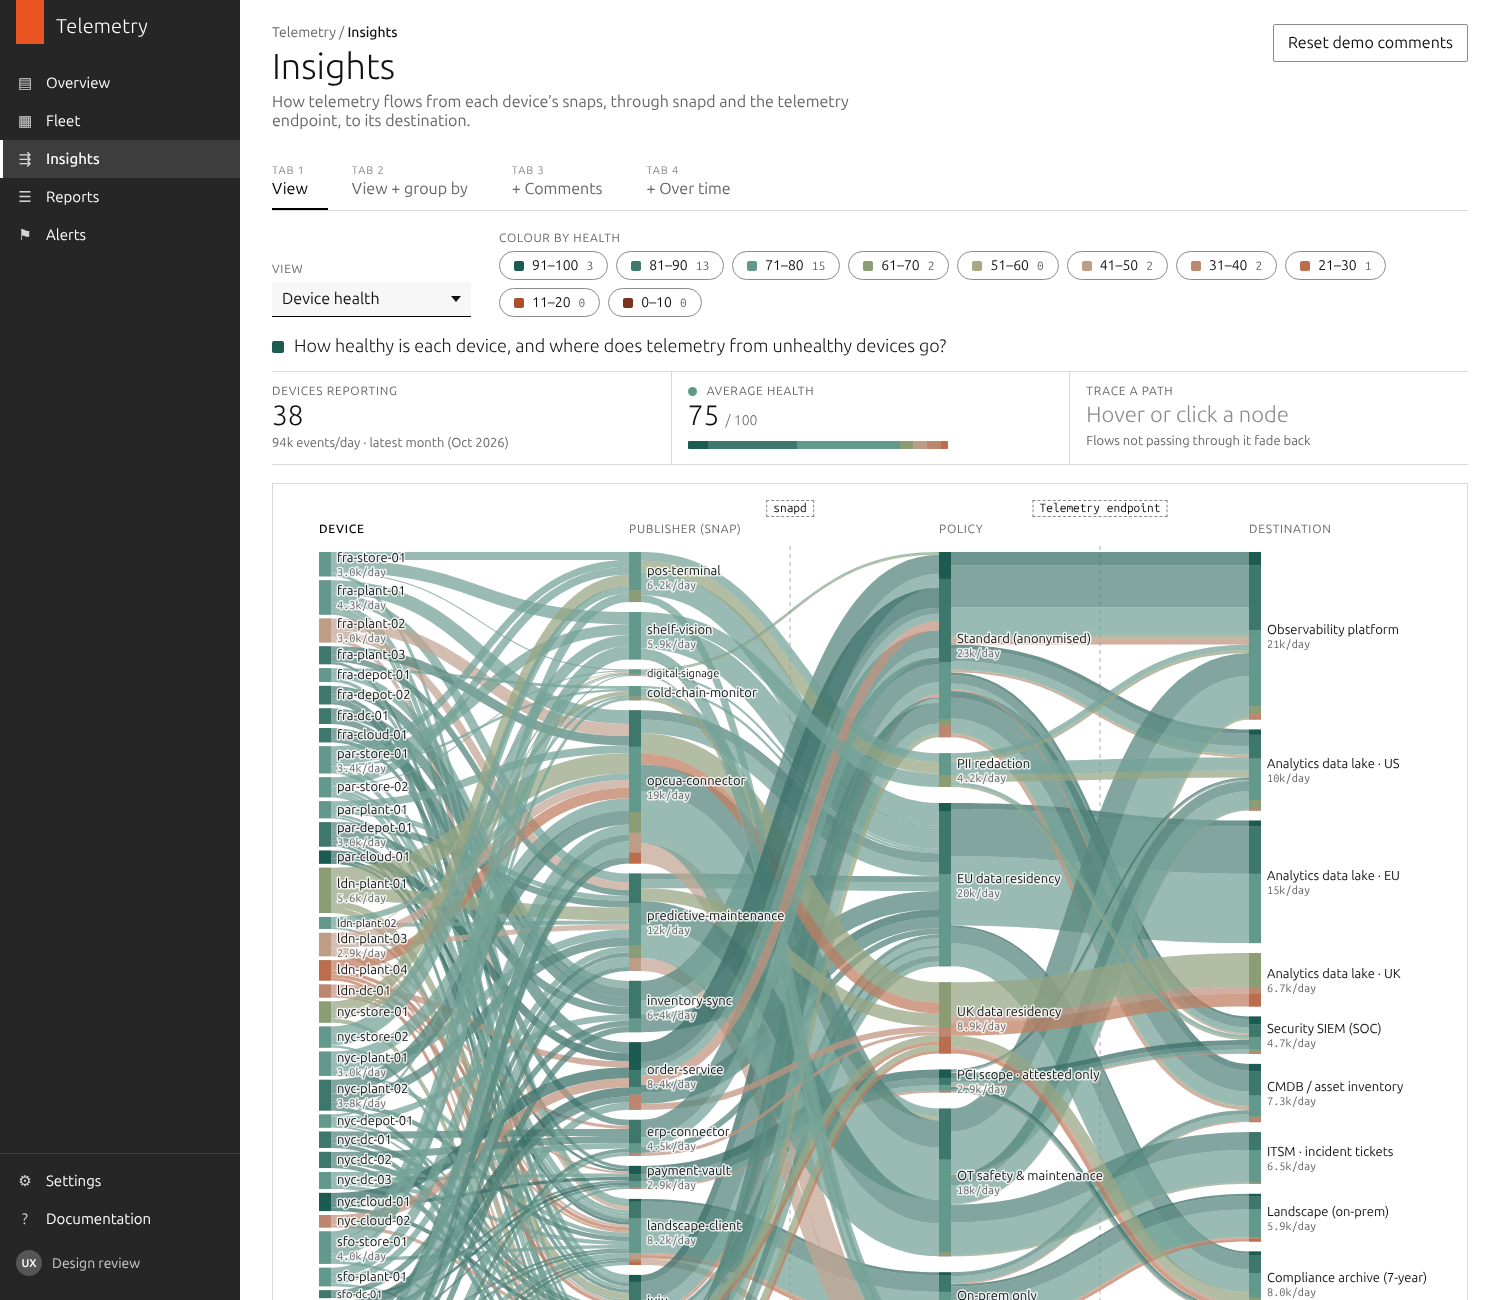
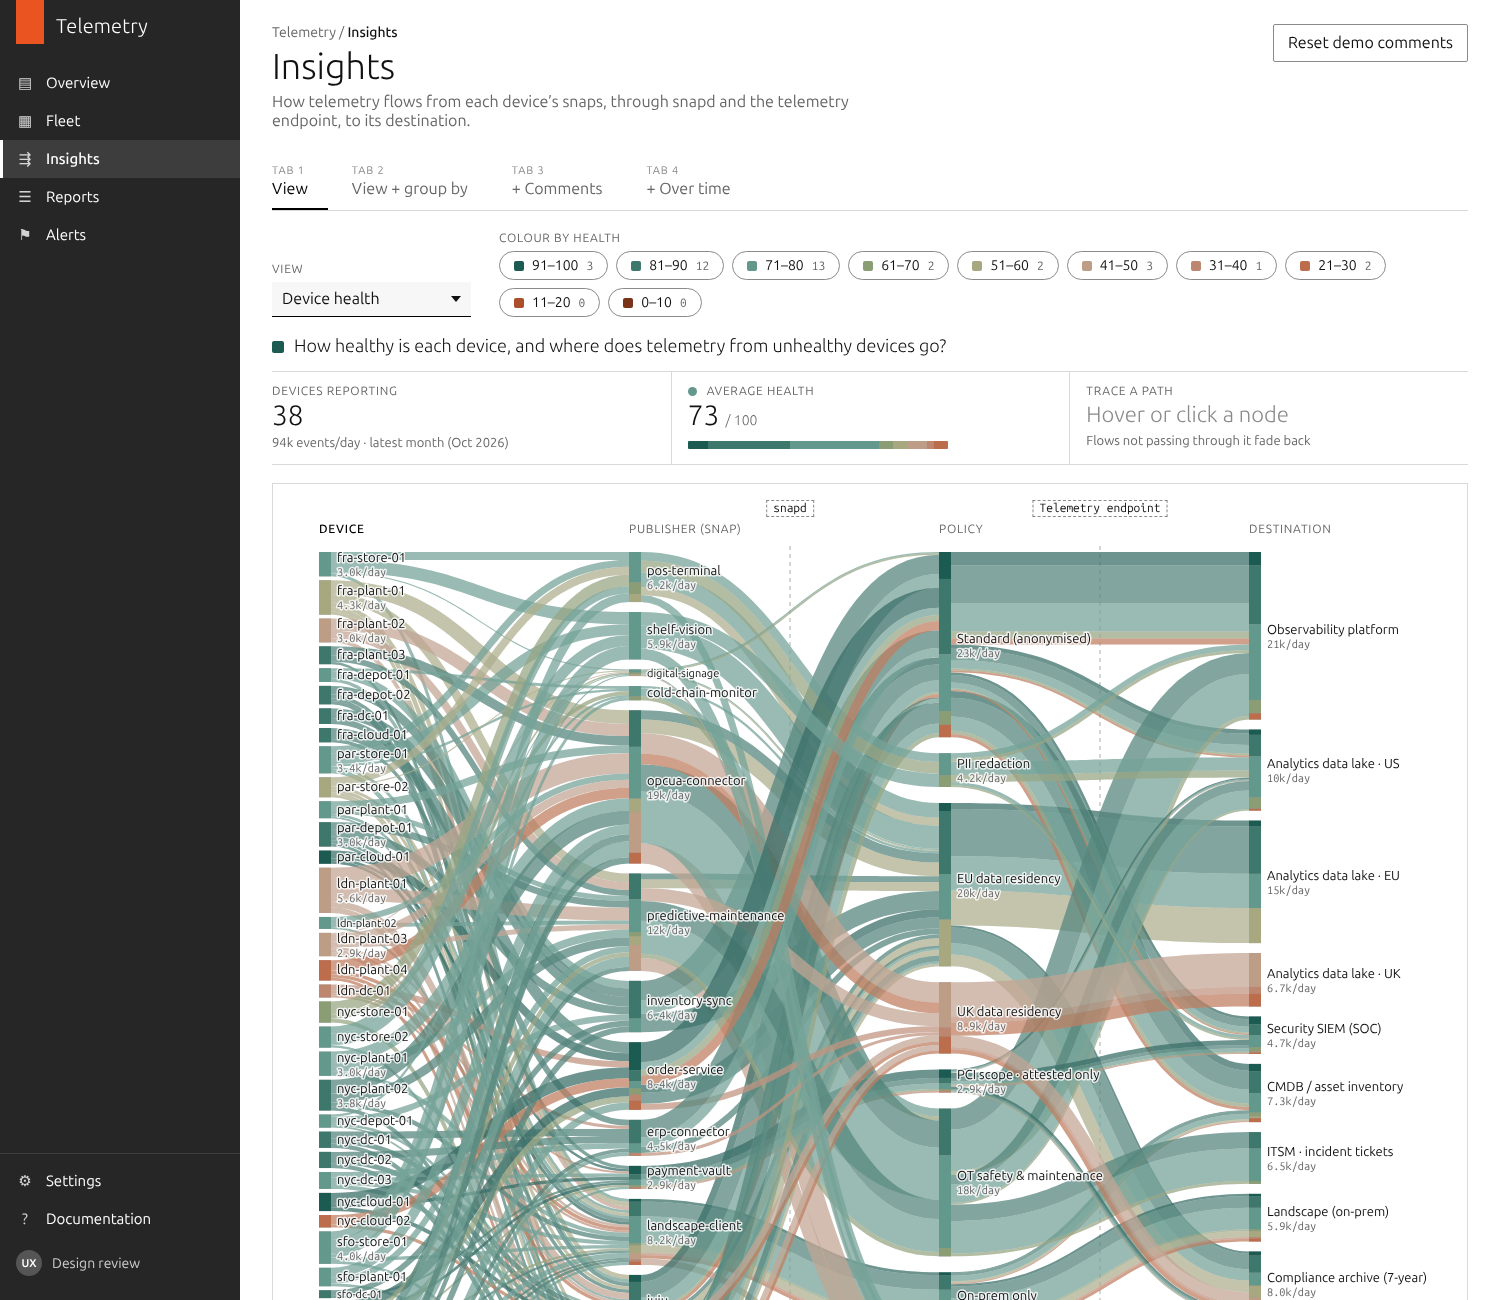
Make Juju 2.9 devices visibly less healthy
Juju 2.9 (out of support) now lowers patch currency, snap refresh
currency, stability and reporting, so those devices average ~50 versus
high 70s on 4.1, and recover when upgraded (nyc-cloud-01: 68 -> 93 on
moving to 3.6). Adds two comments that call this out.

Claude-Session: https://claude.ai/code/session_0156BKrAD5wHGfcWHmuamSMf

diff --git a/js/comments.js b/js/comments.js
@@ -20,9 +20,13 @@
  */
 (function (TL) {
   'use strict';
-  const KEY = 'tl.insights.comments.v9';
+  const KEY = 'tl.insights.comments.v10';
 
   const SEED = [
+    { anchor: { view: 'health', groupBy: 'juju', node: 'juju:2.9', period: null },
+      author: 'Platform engineering', body: 'Juju 2.9 devices average under 50 on health, against high 70s for 4.1. Every component is lower: patching, snap refreshes, stability and reporting. The old agents are the common factor.' },
+    { anchor: { view: 'health', groupBy: 'device', node: 'device:nyc-cloud-01', period: '2026-06' },
+      author: 'Infrastructure ops · NA', body: 'Upgraded from Juju 2.9 to 3.6 this month: health went from 68 to 93 with no other changes. Using this as the case for prioritising the remaining 2.9 upgrades.' },
     // SRE incident thread (Health view, grouped by Site, on Factory floor)
     { anchor: { view: 'health', groupBy: 'site', node: 'site:factory', period: '2026-06' }, createdAt: '2026-06-17T08:42:00Z',
       author: 'Ana Ribeiro · SRE', body: 'Factory health is falling fast: stability is near zero on most plants and opcua-connector telemetry has halved. Started right after opcua-connector r214 hit stable on Monday. Paging plant IT.' },
@@ -45,7 +49,7 @@
     { anchor: { view: 'health', groupBy: 'health', node: 'health:21-30', period: null },
       author: 'Plant IT · London', body: 'This is ldn-plant-04: still on 20.04 and unpatched since the line was retooled. Booked for rebuild next month.' },
     { anchor: { view: 'juju', groupBy: 'juju', node: 'juju:2.9', period: null },
-      author: 'Platform engineering', body: 'These are the last Juju 2.9 deployments. Can we export the device list for the upgrade backlog?' },
+      author: 'Platform engineering', body: 'These are the last Juju 2.9 deployments, and they’re also our least healthy devices. Can we export the list for the upgrade backlog?' },
     { anchor: { view: 'juju', groupBy: 'juju', node: 'juju:4.1', period: '2026-06' },
       author: 'Infrastructure ops · EMEA', body: '4.1 upgrades pick up from here, after the Frankfurt data-centre maintenance window.' },
     { anchor: { view: 'juju', groupBy: 'device', node: 'device:fra-plant-01', period: null },

diff --git a/js/data.js b/js/data.js
@@ -351,6 +351,14 @@ window.TL = window.TL || {};
       policy: h.policy != null ? h.policy : (REGION_SOV[a.region] && a.sovereignty === 'none') ? 55 : a.consent === 'optout' ? 60 : 95,
       stability: h.incident === m ? 5 : clamp(h.stability + h.noiseByMonth[m])
     };
+    // Juju 2.9 is out of support: older agents miss fixes, lag on refreshes,
+    // crash more and drop metrics. Devices recover once upgraded to 3.6.
+    if (a.juju === '2.9') {
+      parts.patch = clamp(parts.patch - 35);
+      parts.snaps = clamp(parts.snaps - 25); // on top of the base -20 above
+      parts.stability = clamp(parts.stability - 35);
+      parts.reporting = clamp(parts.reporting - 20);
+    }
     const fi = INCIDENT.fleet[m], fa = a.site === 'factory' && INCIDENT.factory[m];
     if (fi) Object.keys(fi).forEach(function (k) { parts[k] = clamp(parts[k] + fi[k]); });
     if (fa) Object.keys(fa).forEach(function (k) {

diff --git a/README.md b/README.md
@@ -77,6 +77,8 @@ The intermediate steps were interpolated in OKLCH. Lightness mirrors either side
 - The KPI shows the fleet's average score, with its monthly trend on the Over time tab.
 - In the Health view, each device's tooltip breaks the score down by component.
 
+Devices on **Juju 2.9** (out of support) score lower on patching, snap refreshes, stability and reporting. They average about 50, against the high 70s for Juju 4.1. Their scores recover once upgraded; for example, `nyc-cloud-01` goes from 68 to 93 when it moves to 3.6 in June.
+
 ### Health incident (Jun–Sep 2026)
 
 The data includes a fleet incident to show change over time. All of it is defined in `INCIDENT` in `js/data.js`.
